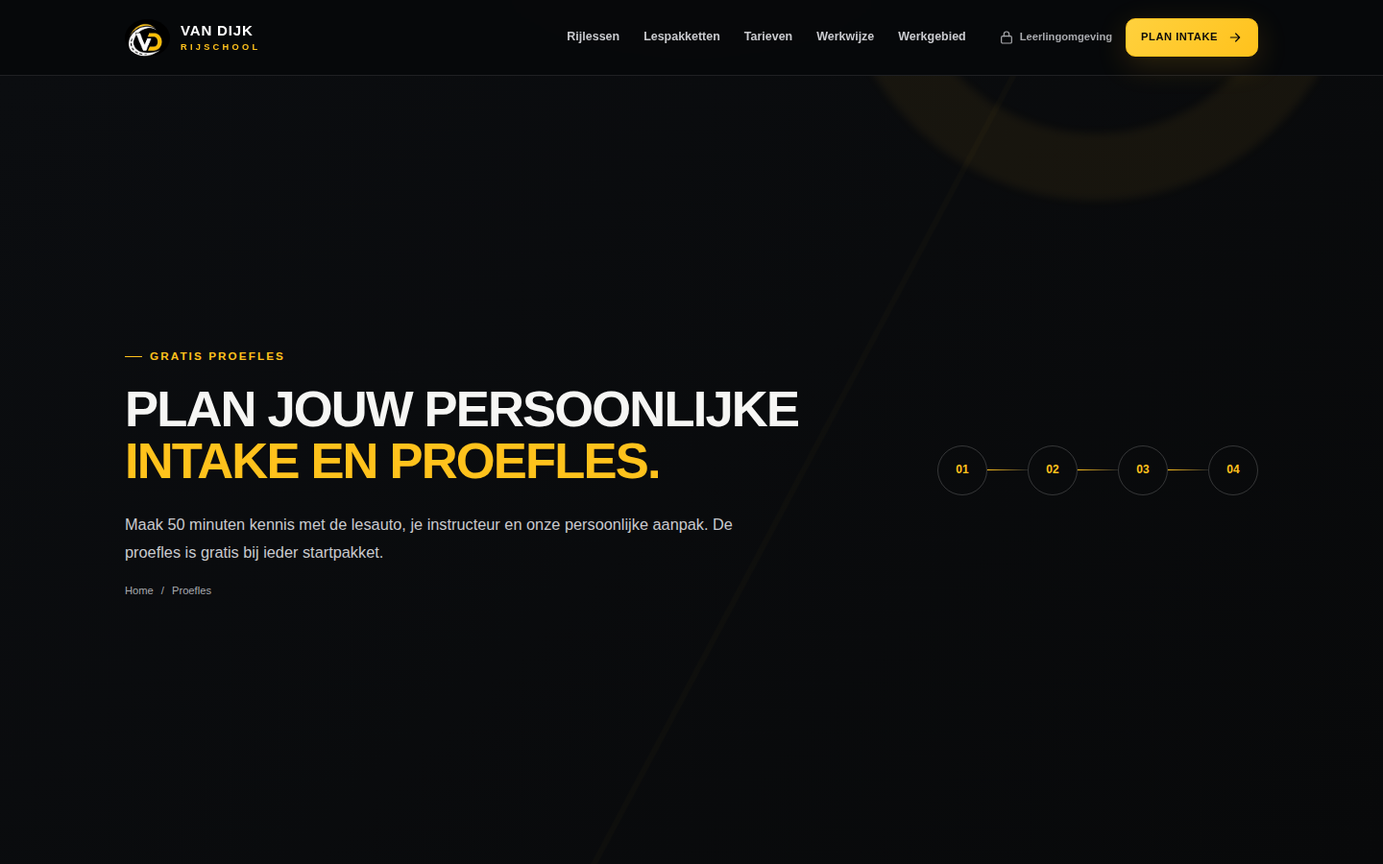
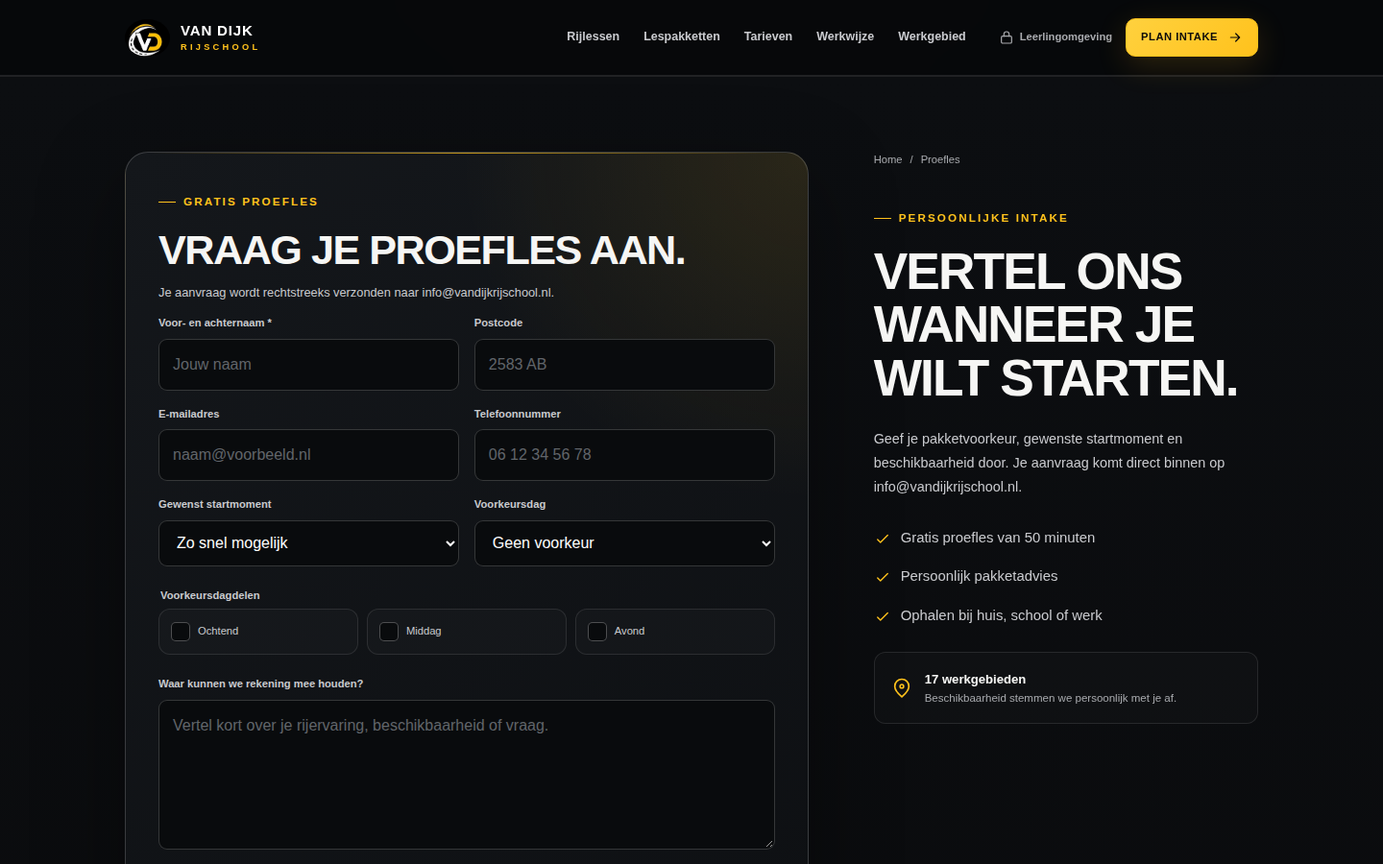
Plaats proeflesformulier bovenaan en mail aanvragen

diff --git a/app/components/LeadForm.tsx b/app/components/LeadForm.tsx
@@ -13,9 +13,10 @@ const startOptions = ["Zo snel mogelijk", "Binnen 1 maand", "Binnen 2–3 maande
 
 export default function LeadForm({ kind = "proefles" }: { kind?: "proefles" | "contact" }) {
   const [submitted, setSubmitted] = useState(false);
+  const [submitting, setSubmitting] = useState(false);
+  const [submissionError, setSubmissionError] = useState("");
   const [packageName, setPackageName] = useState("");
   const [fieldErrors, setFieldErrors] = useState<FieldErrors>({});
-  const [handoffUrl, setHandoffUrl] = useState("");
 
   useEffect(() => {
     const frame = window.requestAnimationFrame(() => {
@@ -26,7 +27,7 @@ export default function LeadForm({ kind = "proefles" }: { kind?: "proefles" | "c
     return () => window.cancelAnimationFrame(frame);
   }, []);
 
-  function submit(event: FormEvent<HTMLFormElement>) {
+  async function submit(event: FormEvent<HTMLFormElement>) {
     event.preventDefault();
     const data = new FormData(event.currentTarget);
     const name = String(data.get("naam") ?? "").trim();
@@ -50,38 +51,45 @@ export default function LeadForm({ kind = "proefles" }: { kind?: "proefles" | "c
     }
 
     const dayParts = data.getAll("dagdelen").map(String);
-    const lines = [
-      kind === "proefles" ? "Intake- en proeflesaanvraag" : "Contactaanvraag",
-      `Naam: ${name}`,
-      email ? `E-mail: ${email}` : "",
-      phone ? `Telefoon: ${phone}` : "",
-      postcode ? `Postcode: ${postcode.toUpperCase()}` : "",
-      packageName ? `Pakketvoorkeur: ${packageName}` : "",
-      kind === "proefles" ? `Gewenste start: ${String(data.get("startmoment") ?? "In overleg")}` : "",
-      kind === "proefles" ? `Voorkeursdag: ${String(data.get("voorkeursdag") ?? "Geen voorkeur")}` : "",
-      kind === "proefles" && dayParts.length ? `Voorkeursdagdelen: ${dayParts.join(", ")}` : "",
-      `Voorkeurscontact: ${channels.join(", ")}`,
-      String(data.get("bericht") ?? "").trim() ? `Toelichting: ${String(data.get("bericht")).trim()}` : "",
-    ].filter(Boolean);
-    const body = lines.join("\n");
-    const prefersEmail = channels.includes("email") && !channels.includes("whatsapp");
-    const url = prefersEmail
-      ? `mailto:info@vandijkrijschool.nl?subject=${encodeURIComponent(lines[0])}&body=${encodeURIComponent(body)}`
-      : `https://wa.me/31618240496?text=${encodeURIComponent(body)}`;
-
     setFieldErrors({});
-    setHandoffUrl(url);
-    setSubmitted(true);
-    window.open(url, "_blank", "noopener,noreferrer");
+    setSubmissionError("");
+    setSubmitting(true);
+    try {
+      const response = await fetch("/api/aanvragen", {
+        method: "POST",
+        headers: { "Content-Type": "application/json" },
+        body: JSON.stringify({
+          kind,
+          name,
+          email,
+          phone,
+          postcode,
+          packageName,
+          startMoment: String(data.get("startmoment") ?? ""),
+          preferredDay: String(data.get("voorkeursdag") ?? ""),
+          dayParts,
+          channels,
+          message: String(data.get("bericht") ?? "").trim(),
+          website: String(data.get("website") ?? ""),
+          consent: Boolean(data.get("toestemming")),
+        }),
+      });
+      const result = await response.json() as { error?: string };
+      if (!response.ok) throw new Error(result.error || "Verzenden is niet gelukt.");
+      setSubmitted(true);
+    } catch (error) {
+      setSubmissionError(error instanceof Error ? error.message : "Verzenden is niet gelukt.");
+    } finally {
+      setSubmitting(false);
+    }
   }
 
   if (submitted) {
     return (
       <div className="form-success" role="status">
-        <span><Check width="30" /></span><small>Aanvraag klaargezet</small>
-        <h2>{kind === "proefles" ? "Je intake staat klaar." : "Je bericht staat klaar."}</h2>
-        <p>Verstuur het bericht in WhatsApp of je e-mailapp om je aanvraag definitief te verzenden.</p>
-        <a className="button" href={handoffUrl} rel="noreferrer" target="_blank">Open bericht opnieuw <ArrowRight width="17" /></a>
+        <span><Check width="30" /></span><small>Aanvraag verzonden</small>
+        <h2>{kind === "proefles" ? "Je proeflesaanvraag is binnen." : "Je bericht is binnen."}</h2>
+        <p>Je aanvraag is rechtstreeks verzonden naar info@vandijkrijschool.nl. We nemen persoonlijk contact met je op.</p>
         <button className="text-button" type="button" onClick={() => setSubmitted(false)}>Gegevens aanpassen</button>
       </div>
     );
@@ -89,7 +97,8 @@ export default function LeadForm({ kind = "proefles" }: { kind?: "proefles" | "c
 
   return (
     <form className="lead-form" onSubmit={submit} noValidate>
-      <div className="lead-form__heading"><span className="eyebrow">{kind === "proefles" ? "Jouw intake" : "Contact"}</span><h2>{kind === "proefles" ? "Geef je voorkeuren door." : "Waar kunnen we je mee helpen?"}</h2><p>Na het invullen wordt je aanvraag klaargezet in WhatsApp of je e-mailapp.</p></div>
+      <div className="lead-form__heading"><span className="eyebrow">{kind === "proefles" ? "Gratis proefles" : "Contact"}</span>{kind === "proefles" ? <h1>Vraag je proefles aan.</h1> : <h2>Waar kunnen we je mee helpen?</h2>}<p>Je aanvraag wordt rechtstreeks verzonden naar info@vandijkrijschool.nl.</p></div>
+      <label className="form-honeypot" aria-hidden="true">Website<input name="website" tabIndex={-1} autoComplete="off" /></label>
       {packageName ? <div className="selected-package"><Check width="17" /><span>Pakketvoorkeur: <strong>{packageName}</strong></span></div> : null}
       <div className="form-grid">
         <label htmlFor={`${kind}-naam`}><span>Voor- en achternaam *</span><input aria-invalid={Boolean(fieldErrors.naam)} id={`${kind}-naam`} name="naam" autoComplete="name" placeholder="Jouw naam" required />{fieldErrors.naam ? <small className="field-error">{fieldErrors.naam}</small> : null}</label>
@@ -102,8 +111,9 @@ export default function LeadForm({ kind = "proefles" }: { kind?: "proefles" | "c
       <label className="form-message"><span>Waar kunnen we rekening mee houden?</span><textarea name="bericht" rows={5} placeholder="Vertel kort over je rijervaring, beschikbaarheid of vraag." /></label>
       <fieldset className="contact-preference"><legend>Voorkeurscontact</legend><label><input type="checkbox" defaultChecked name="contactkanalen" value="bellen" /> <Phone width="17" /> Bellen</label><label><input type="checkbox" defaultChecked name="contactkanalen" value="whatsapp" /> <Message width="17" /> WhatsApp</label><label><input type="checkbox" name="contactkanalen" value="email" /> <Mail width="17" /> E-mail</label>{fieldErrors.contactkanalen ? <small className="field-error form-grid__full">{fieldErrors.contactkanalen}</small> : null}</fieldset>
       <label className="consent"><input aria-invalid={Boolean(fieldErrors.toestemming)} type="checkbox" name="toestemming" required /><span>Ik ga akkoord met de verwerking van mijn gegevens voor deze aanvraag. Bekijk de <Link href="/privacy">privacyverklaring</Link>.{fieldErrors.toestemming ? <small className="field-error">{fieldErrors.toestemming}</small> : null}</span></label>
-      <button className="button lead-form__submit" type="submit">{kind === "proefles" ? "Open intakeaanvraag" : "Open contactbericht"}<ArrowRight width="17" /></button>
-      <p className="form-note">Je gegevens worden pas verzonden nadat je het klaargezette bericht zelf verstuurt.</p>
+      {submissionError ? <p className="form-error" role="alert">{submissionError}</p> : null}
+      <button className="button lead-form__submit" disabled={submitting} type="submit">{submitting ? "Bezig met verzenden…" : kind === "proefles" ? "Verstuur proeflesaanvraag" : "Verstuur contactbericht"}<ArrowRight width="17" /></button>
+      <p className="form-note">Je gegevens worden alleen gebruikt om je aanvraag te behandelen.</p>
     </form>
   );
 }

diff --git a/app/lib/lead-mail.ts b/app/lib/lead-mail.ts
@@ -1,0 +1,151 @@
+import nodemailer from "nodemailer";
+
+export const leadDestination = "info@vandijkrijschool.nl";
+
+const allowedChannels = new Set(["bellen", "whatsapp", "email"]);
+const allowedDayParts = new Set(["ochtend", "middag", "avond"]);
+
+export type LeadSubmission = {
+  kind: "proefles" | "contact";
+  name: string;
+  email: string;
+  phone: string;
+  postcode: string;
+  packageName: string;
+  startMoment: string;
+  preferredDay: string;
+  dayParts: string[];
+  channels: string[];
+  message: string;
+};
+
+type LeadParseResult =
+  | { ok: true; lead: LeadSubmission; honeypot: boolean }
+  | { ok: false; error: string };
+
+function cleanString(value: unknown, maxLength: number) {
+  return typeof value === "string" ? value.trim().slice(0, maxLength) : "";
+}
+
+function cleanList(value: unknown, allowed: Set<string>) {
+  if (!Array.isArray(value)) return [];
+  return [...new Set(value.filter((item): item is string => typeof item === "string" && allowed.has(item)))];
+}
+
+export function parseLeadSubmission(payload: unknown): LeadParseResult {
+  if (!payload || typeof payload !== "object" || Array.isArray(payload)) {
+    return { ok: false, error: "Ongeldige aanvraag." };
+  }
+
+  const input = payload as Record<string, unknown>;
+  const kind = input.kind === "contact" ? "contact" : "proefles";
+  const name = cleanString(input.name, 120);
+  const email = cleanString(input.email, 180).toLowerCase();
+  const phone = cleanString(input.phone, 40);
+  const postcode = cleanString(input.postcode, 12).toUpperCase();
+  const channels = cleanList(input.channels, allowedChannels);
+  const dayParts = cleanList(input.dayParts, allowedDayParts);
+
+  if (cleanString(input.website, 200)) {
+    return {
+      ok: true,
+      honeypot: true,
+      lead: { kind, name: "", email: "", phone: "", postcode: "", packageName: "", startMoment: "", preferredDay: "", dayParts: [], channels: [], message: "" },
+    };
+  }
+  if (name.length < 2) return { ok: false, error: "Vul je naam in." };
+  if (email && !/^[^\s@]+@[^\s@]+\.[^\s@]+$/.test(email)) return { ok: false, error: "Vul een geldig e-mailadres in." };
+  if (phone && phone.replace(/\D/g, "").length < 8) return { ok: false, error: "Vul een geldig telefoonnummer in." };
+  if (!email && !phone) return { ok: false, error: "Vul een e-mailadres of telefoonnummer in." };
+  if (postcode && !/^[1-9][0-9]{3}\s?[A-Z]{2}$/.test(postcode)) return { ok: false, error: "Vul een geldige postcode in." };
+  if (!channels.length) return { ok: false, error: "Kies minimaal één voorkeurskanaal." };
+  if (input.consent !== true) return { ok: false, error: "Geef toestemming voor de verwerking van je aanvraag." };
+
+  return {
+    ok: true,
+    honeypot: false,
+    lead: {
+      kind,
+      name,
+      email,
+      phone,
+      postcode,
+      packageName: cleanString(input.packageName, 100),
+      startMoment: cleanString(input.startMoment, 80),
+      preferredDay: cleanString(input.preferredDay, 40),
+      dayParts,
+      channels,
+      message: cleanString(input.message, 3000),
+    },
+  };
+}
+
+function leadLines(lead: LeadSubmission) {
+  return [
+    lead.kind === "proefles" ? "Nieuwe proeflesaanvraag" : "Nieuw contactbericht",
+    "",
+    `Naam: ${lead.name}`,
+    lead.email ? `E-mail: ${lead.email}` : "",
+    lead.phone ? `Telefoon: ${lead.phone}` : "",
+    lead.postcode ? `Postcode: ${lead.postcode}` : "",
+    lead.packageName ? `Pakketvoorkeur: ${lead.packageName}` : "",
+    lead.kind === "proefles" && lead.startMoment ? `Gewenste start: ${lead.startMoment}` : "",
+    lead.kind === "proefles" && lead.preferredDay ? `Voorkeursdag: ${lead.preferredDay}` : "",
+    lead.kind === "proefles" && lead.dayParts.length ? `Voorkeursdagdelen: ${lead.dayParts.join(", ")}` : "",
+    `Voorkeurscontact: ${lead.channels.join(", ")}`,
+    lead.message ? "" : "",
+    lead.message ? `Toelichting:\n${lead.message}` : "",
+    "",
+    "Verzonden via vandijkrijschool.nl",
+  ].filter((line, index, lines) => line !== "" || (index > 0 && lines[index - 1] !== ""));
+}
+
+function escapeHtml(value: string) {
+  return value.replace(/[&<>"']/g, (character) => ({ "&": "&amp;", "<": "&lt;", ">": "&gt;", '"': "&quot;", "'": "&#039;" })[character] ?? character);
+}
+
+export async function sendLeadEmail(lead: LeadSubmission) {
+  const hosts = (process.env.LEAD_SMTP_HOSTS ?? "mx1.mijndomein.nl,mx2.mijndomein.nl")
+    .split(",")
+    .map((host) => host.trim())
+    .filter(Boolean);
+  const port = Number(process.env.LEAD_SMTP_PORT ?? "25");
+  const user = process.env.LEAD_SMTP_USER;
+  const password = process.env.LEAD_SMTP_PASSWORD;
+  const siteHost = new URL(process.env.NEXT_PUBLIC_SITE_URL ?? "https://voorbeeld.vandijkrijschool.nl").hostname;
+  const lines = leadLines(lead);
+  const subject = lead.kind === "proefles"
+    ? `[Website] Proeflesaanvraag van ${lead.name}`
+    : `[Website] Contactbericht van ${lead.name}`;
+  let lastError: unknown;
+
+  for (const host of hosts) {
+    try {
+      const transport = nodemailer.createTransport({
+        host,
+        port,
+        secure: port === 465,
+        requireTLS: port !== 465,
+        name: siteHost,
+        auth: user && password ? { user, pass: password } : undefined,
+        connectionTimeout: 10_000,
+        greetingTimeout: 10_000,
+        socketTimeout: 15_000,
+        tls: { minVersion: "TLSv1.2", servername: host },
+      });
+      await transport.sendMail({
+        from: `Van Dijk Rijschool website <${leadDestination}>`,
+        to: leadDestination,
+        replyTo: lead.email || undefined,
+        subject,
+        text: lines.join("\n"),
+        html: `<div style="font-family:Arial,sans-serif;line-height:1.6"><h1 style="font-size:20px">${escapeHtml(lines[0])}</h1>${lines.slice(2).map((line) => line ? `<p style="margin:6px 0">${escapeHtml(line).replace(/\n/g, "<br>")}</p>` : "<br>").join("")}</div>`,
+      });
+      return;
+    } catch (error) {
+      lastError = error;
+    }
+  }
+
+  throw lastError instanceof Error ? lastError : new Error("E-mail kon niet worden afgeleverd.");
+}

diff --git a/app/proefles/page.tsx b/app/proefles/page.tsx
@@ -4,7 +4,7 @@ import LeadForm from "../components/LeadForm";
 import { IconCards } from "../components/PageSections";
 import { SectionHeading } from "../components/Marketing";
 import ResponsiveImage from "../components/ResponsiveImage";
-import { Breadcrumbs, PageHero } from "../components/SiteChrome";
+import { Breadcrumbs } from "../components/SiteChrome";
 import { corePageMetadata } from "../lib/site";
 
 export const metadata: Metadata = corePageMetadata("/proefles");
@@ -12,10 +12,9 @@ export const metadata: Metadata = corePageMetadata("/proefles");
 export default function TrialLessonPage() {
   return (
     <main id="main-content">
-      <PageHero eyebrow="Gratis proefles" title="Plan jouw persoonlijke" accent="intake en proefles." intro="Maak 50 minuten kennis met de lesauto, je instructeur en onze persoonlijke aanpak. De proefles is gratis bij ieder startpakket."><Breadcrumbs currentPath="/proefles" items={[{ label: "Proefles" }]} /></PageHero>
+      <section className="section section--soft trial-form-first"><div className="site-shell form-layout form-layout--form-first"><LeadForm /><div className="booking-aside"><Breadcrumbs currentPath="/proefles" items={[{ label: "Proefles" }]} /><SectionHeading eyebrow="Persoonlijke intake" title="Vertel ons wanneer je wilt starten." /><p>Geef je pakketvoorkeur, gewenste startmoment en beschikbaarheid door. Je aanvraag komt direct binnen op info@vandijkrijschool.nl.</p><ul className="checklist checklist--large"><li><Check width="18" /> Gratis proefles van 50 minuten</li><li><Check width="18" /> Persoonlijk pakketadvies</li><li><Check width="18" /> Ophalen bij huis, school of werk</li></ul><div className="location-note"><MapPin width="22" /><div><strong>17 werkgebieden</strong><span>Beschikbaarheid stemmen we persoonlijk met je af.</span></div></div></div></div></section>
       <figure className="intake-photo"><ResponsiveImage imageBase="intake-bij-lesauto" alt="Kennismaking naast de zwarte Van Dijk Rijschool-lesauto" priority sizes="100vw" /><figcaption className="site-shell"><span className="eyebrow">Persoonlijke kennismaking</span><strong>Ontdek welk lespakket en tempo bij jou passen.</strong></figcaption></figure>
-      <section className="section"><div className="site-shell"><SectionHeading eyebrow="In drie stappen aangevraagd" title="Snel jouw voorkeuren doorgeven." /><IconCards items={[{ icon: Calendar, title: "Kies jouw voorkeur", text: "Geef een voorkeursdag en één of meer dagdelen door." },{ icon: Gauge, title: "Vertel over je ervaring", text: "We stemmen het gesprek en lesadvies af op jouw startniveau." },{ icon: Check, title: "Verstuur je aanvraag", text: "Het formulier zet je bericht klaar in WhatsApp of e-mail." },{ icon: Shield, title: "Persoonlijke afstemming", text: "We spreken samen een definitief moment voor de proefles af." }]} /></div></section>
-      <section className="section section--soft"><div className="site-shell form-layout"><div className="booking-aside"><SectionHeading eyebrow="Zo werkt het" title="Al jouw voorkeuren bij elkaar." /><p>Kies je pakketvoorkeur, gewenste startmoment en beschikbaarheid. Zo kunnen we je gericht adviseren.</p><div className="booking-flow-rail"><article><span>01</span><div><strong>Kies dag en dagdelen</strong><small>Meerdere dagdelen mogelijk</small></div></article><article><span>02</span><div><strong>Vul je gegevens in</strong><small>Inclusief rijervaring en voorkeuren</small></div></article><article><span>03</span><div><strong>Verstuur je aanvraag</strong><small>Via WhatsApp of e-mail</small></div></article></div><ul className="checklist checklist--large"><li><Check width="18" /> Gratis proefles van 50 minuten</li><li><Check width="18" /> Persoonlijk pakketadvies</li><li><Check width="18" /> Ophalen bij huis, school of werk</li></ul><div className="location-note"><MapPin width="22" /><div><strong>17 werkgebieden</strong><span>Beschikbaarheid stemmen we persoonlijk met je af.</span></div></div></div><LeadForm /></div></section>
+      <section className="section"><div className="site-shell"><SectionHeading eyebrow="In drie stappen aangevraagd" title="Snel jouw voorkeuren doorgeven." /><IconCards items={[{ icon: Calendar, title: "Kies jouw voorkeur", text: "Geef een voorkeursdag en één of meer dagdelen door." },{ icon: Gauge, title: "Vertel over je ervaring", text: "We stemmen het gesprek en lesadvies af op jouw startniveau." },{ icon: Check, title: "Verstuur je aanvraag", text: "Je aanvraag wordt direct naar onze mailbox verzonden." },{ icon: Shield, title: "Persoonlijke afstemming", text: "We spreken samen een definitief moment voor de proefles af." }]} /></div></section>
     </main>
   );
 }

diff --git a/app/privacy/page.tsx b/app/privacy/page.tsx
@@ -17,7 +17,7 @@ export default function PrivacyPage() {
         <h2>1. Wie is verantwoordelijk?</h2><p>{siteConfig.legalName} is verantwoordelijk voor de verwerking van persoonsgegevens. KVK {siteConfig.contact.kvk.value}, BTW-id {siteConfig.contact.vatId.value}. Voor privacyvragen kun je mailen naar <a href={`mailto:${siteConfig.contact.email.value}`}>{siteConfig.contact.email.value}</a>.</p>
         <h2>2. Welke gegevens gebruiken we?</h2><p>Via het intake- en contactformulier kun je je naam, e-mailadres, telefoonnummer, postcode, beschikbaarheid, pakketvoorkeur en een toelichting invullen. In PlanGo kunnen afspraken, leerdoelen, voortgang en lesverslagen worden verwerkt.</p>
         <h2>3. Waarom gebruiken we deze gegevens?</h2><p>We gebruiken je gegevens om vragen te beantwoorden, een proefles of rijles af te stemmen, de lesovereenkomst uit te voeren, je voortgang bij te houden en te voldoen aan wettelijke administratieplichten.</p>
-        <h2>4. Versturen via WhatsApp of e-mail</h2><p>Het formulier op deze website zet je aanvraag klaar in WhatsApp of je e-mailapp. De website bewaart de ingevulde gegevens niet in een eigen database. Je gegevens worden pas verzonden nadat je het klaargezette bericht zelf verstuurt. Vanaf dat moment zijn ook de privacyvoorwaarden van de gekozen berichtendienst van toepassing.</p>
+        <h2>4. Versturen van het formulier</h2><p>Het formulier verstuurt je aanvraag rechtstreeks naar info@vandijkrijschool.nl. De website bewaart de ingevulde gegevens niet in een eigen database. De gegevens worden alleen gebruikt om je vraag of proeflesaanvraag te behandelen.</p>
         <h2>5. Dienstverleners</h2><p>Voor planning en voortgang gebruiken we PlanGo. Voor de franchiseformule en het garantiefonds werken we samen met DriveYou. We delen alleen gegevens die nodig zijn voor de betreffende dienstverlening.</p>
         <h2 id="cookies">6. Cookiebeleid</h2><p>Deze website gebruikt geen advertentiecookies, marketingprofielen of trackingcookies. Alleen technisch noodzakelijke browserfuncties kunnen worden gebruikt om de website goed en veilig te laten werken.</p>
         <h2>7. Jouw rechten</h2><p>Je kunt vragen om inzage, correctie, verwijdering, beperking of overdracht van je persoonsgegevens. Stuur je verzoek naar <a href={`mailto:${siteConfig.contact.email.value}`}>{siteConfig.contact.email.value}</a>.</p>

diff --git a/app/globals.css b/app/globals.css
@@ -704,6 +704,9 @@ p { color: var(--muted-strong); }
 .curriculum__track i { height: 3px; display: block; border-radius: 99px; background: linear-gradient(90deg,var(--yellow-deep),var(--yellow) 48%,#fff0ae 62%,var(--yellow) 76%); background-size: 220% 100%; box-shadow: 0 0 12px rgba(255,194,28,.25); }
 
 .form-layout { display: grid; grid-template-columns: .72fr 1.28fr; gap: 68px; align-items: start; }
+.form-layout--form-first { grid-template-columns: 1.28fr .72fr; }
+.trial-form-first { padding-top: clamp(42px,6vw,78px); }
+.trial-form-first .breadcrumbs { margin-bottom: 34px; }
 .booking-aside { position: sticky; top: 118px; }
 .booking-aside > p { margin: -24px 0 28px; font-size: .9rem; line-height: 1.75; }
 .booking-flow-rail { position: relative; display: grid; gap: 10px; margin: 28px 0; }
@@ -720,8 +723,9 @@ p { color: var(--muted-strong); }
 .location-note span { color: var(--muted); font-size: .72rem; }
 .lead-form { position: relative; isolation: isolate; overflow: hidden; border: 1px solid var(--line-strong); border-radius: var(--radius-lg); background: radial-gradient(circle at 100% 0,rgba(255,194,28,.105),transparent 29%),linear-gradient(145deg,#14171b,#0d0f12); padding: 34px; box-shadow: var(--shadow); }
 .lead-form::before { position: absolute; inset: 0 24px auto; height: 1px; content: ""; background: linear-gradient(90deg,transparent,rgba(255,194,28,.75),transparent); }
-.lead-form__heading h2 { margin-bottom: 12px; font-size: clamp(1.75rem,3vw,2.7rem); text-transform: uppercase; }
+.lead-form__heading h1, .lead-form__heading h2 { margin-bottom: 12px; font-size: clamp(1.75rem,3vw,2.7rem); text-transform: uppercase; }
 .lead-form__heading p { font-size: .8rem; }
+.form-honeypot { position: absolute !important; width: 1px !important; height: 1px !important; overflow: hidden !important; clip: rect(0 0 0 0) !important; clip-path: inset(50%) !important; white-space: nowrap !important; }
 .selected-package { display: flex; align-items: center; gap: 9px; margin: 22px 0; border: 1px solid rgba(255,194,28,.3); border-radius: 10px; color: var(--muted-strong); background: var(--yellow-soft); padding: 13px 15px; font-size: .78rem; }
 .selected-package svg { color: var(--yellow); }
 .form-grid { display: grid; grid-template-columns: repeat(2,1fr); gap: 16px; }

diff --git a/app/api/aanvragen/route.ts b/app/api/aanvragen/route.ts
@@ -1,0 +1,51 @@
+import { parseLeadSubmission, sendLeadEmail } from "../../lib/lead-mail";
+
+export const runtime = "nodejs";
+
+const rateLimitWindowMs = 15 * 60 * 1000;
+const rateLimitMax = 5;
+const requestLog = new Map<string, number[]>();
+
+function clientAddress(request: Request) {
+  return request.headers.get("x-forwarded-for")?.split(",")[0]?.trim() || "unknown";
+}
+
+function isRateLimited(address: string) {
+  const now = Date.now();
+  const recent = (requestLog.get(address) ?? []).filter((timestamp) => now - timestamp < rateLimitWindowMs);
+  if (recent.length >= rateLimitMax) return true;
+  recent.push(now);
+  requestLog.set(address, recent);
+  return false;
+}
+
+function json(body: Record<string, unknown>, status: number) {
+  return Response.json(body, { status, headers: { "Cache-Control": "no-store" } });
+}
+
+export async function POST(request: Request) {
+  const contentLength = Number(request.headers.get("content-length") ?? "0");
+  if (contentLength > 20_000) return json({ error: "De aanvraag is te groot." }, 413);
+
+  let payload: unknown;
+  try {
+    payload = await request.json();
+  } catch {
+    return json({ error: "De aanvraag kon niet worden gelezen." }, 400);
+  }
+
+  const parsed = parseLeadSubmission(payload);
+  if (!parsed.ok) return json({ error: parsed.error }, 400);
+  if (parsed.honeypot) return json({ ok: true }, 200);
+  if (isRateLimited(clientAddress(request))) {
+    return json({ error: "Er zijn te veel aanvragen verstuurd. Probeer het over enkele minuten opnieuw." }, 429);
+  }
+
+  try {
+    await sendLeadEmail(parsed.lead);
+    return json({ ok: true }, 200);
+  } catch (error) {
+    console.error("Lead e-mail delivery failed", error instanceof Error ? error.message : "unknown error");
+    return json({ error: "Verzenden is tijdelijk niet gelukt. Bel of mail ons rechtstreeks." }, 502);
+  }
+}

diff --git a/README.md b/README.md
@@ -1,12 +1,12 @@
 # Van Dijk – Rijschool
 
-Productiewebsite voor Van Dijk – Rijschool in Den Haag en omgeving. De Next.js-app bevat de volledige marketingwebsite, centrale prijs- en regiogegevens, een intakeformulier met overdracht naar WhatsApp of e-mail en een responsive beeldbibliotheek.
+Productiewebsite voor Van Dijk – Rijschool in Den Haag en omgeving. De Next.js-app bevat de volledige marketingwebsite, centrale prijs- en regiogegevens, een intakeformulier met rechtstreekse e-mailaflevering en een responsive beeldbibliotheek.
 
 ## Belangrijkste onderdelen
 
 - 28 indexeerbare inhoudsroutes en drie ondersteunende noindexroutes;
 - vijf actuele lespakketten, met het Alles-in-1 pakket prominent uitgelicht;
-- intake- en contactformulieren die een bericht klaarzetten via de officiële contactkanalen;
+- intake- en contactformulieren die aanvragen rechtstreeks afleveren op het officiële e-mailadres;
 - PlanGo als digitale leerlingomgeving;
 - 17 lokale werkgebiedpagina’s;
 - metadata, Open Graph, JSON-LD, robots, sitemap en manifest;
